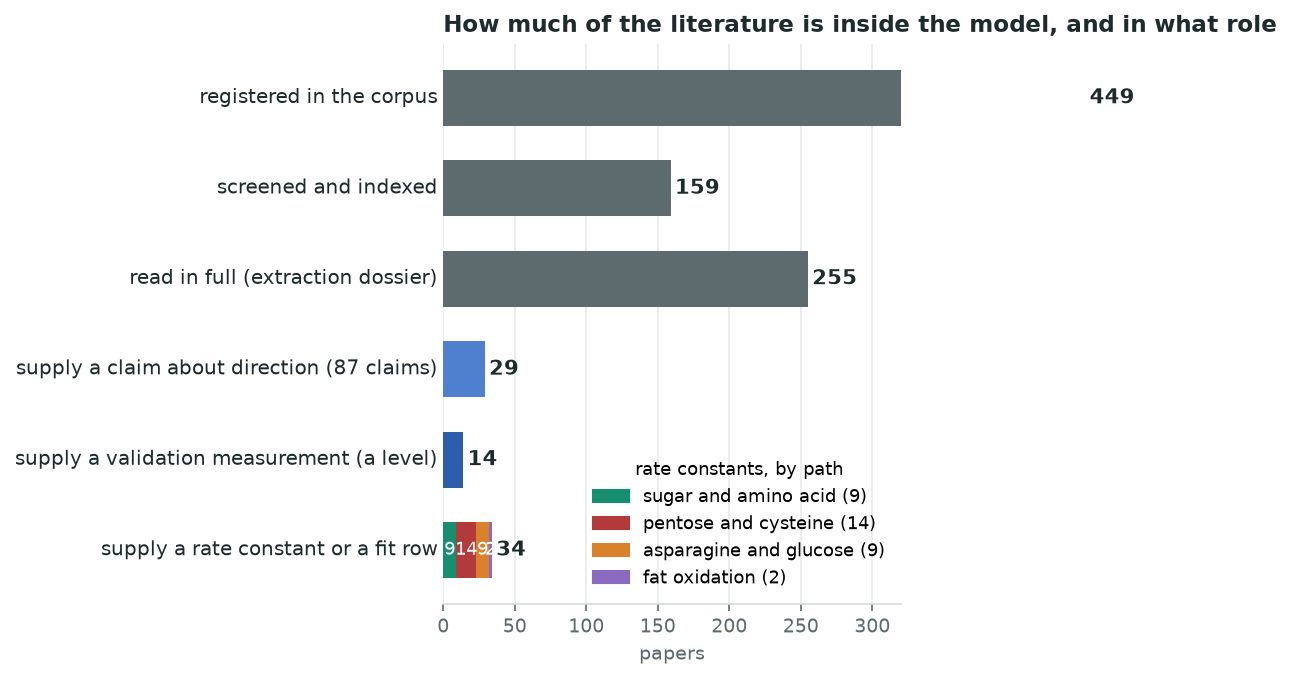
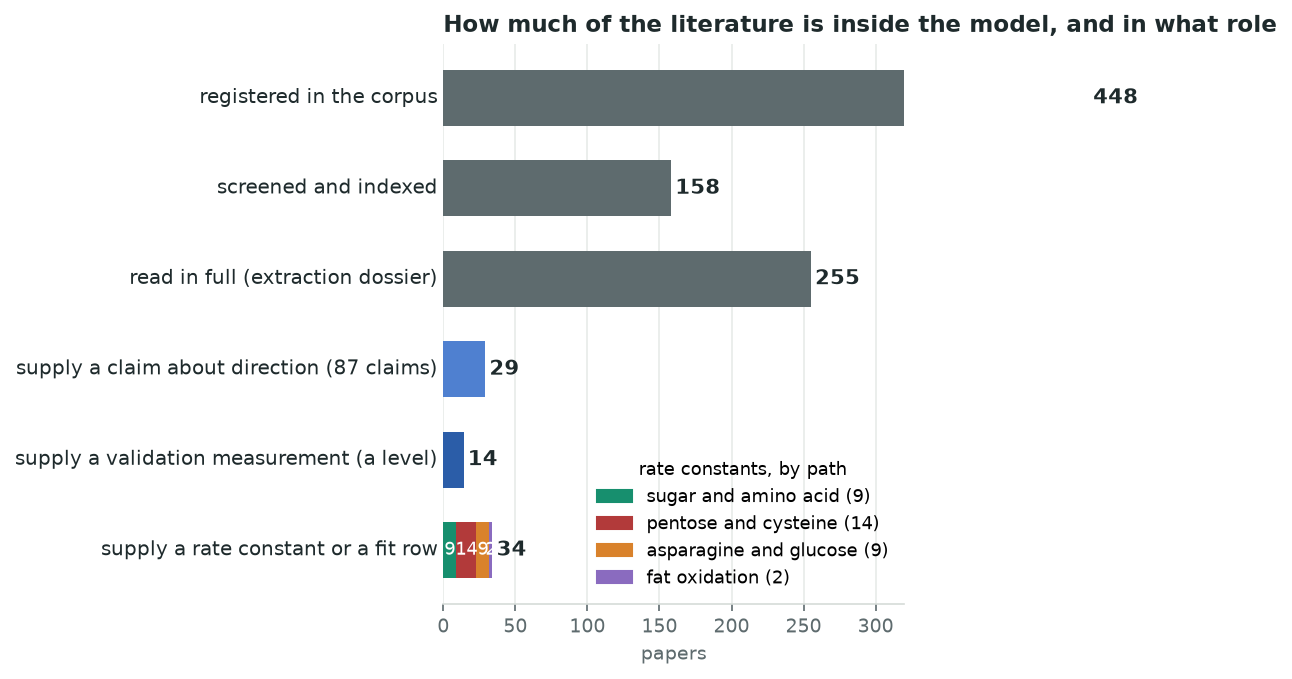
Delete the orphaned G6P/HDMF intake entry; re-pin the Chang2021 bundle hashes

diff --git a/tests/unit/test_kinetic_core_b2_3.py b/tests/unit/test_kinetic_core_b2_3.py
@@ -311,12 +311,14 @@ BUNDLE_BASELINES = {
[1 lines of base64/hex data omitted]
     "mp_holdout_glucose_alanine_130C_2h_pH80_Schibilsky2019":
[1 lines of base64/hex data omitted]
+    # re-pinned 2026-10-27: the three Chang2021 bundles' citation now names the paper's real
+    # authors (Lin, Chan, Kao & Sung, per CrossRef); measured block and conditions untouched.
     "mp_holdout_glucose_asparagine_180C_10min_Chang2021":
[2 lines of base64/hex data omitted]
     "mp_holdout_glucose_asparagine_180C_30min_Chang2021":
[2 lines of base64/hex data omitted]
     "mp_holdout_glucose_asparagine_180C_30min_water_Chang2021":
[2 lines of base64/hex data omitted]
     # RE-BASELINED BY WAVE B37/B38 (2026-09-11): the precursor provenance note gained a correction --
     # Knol 2005 is on disk and its dossier confirms the 0.2 M; no measured value moved. Previous: 974846cfc0fa87780e208fbc882310c41efcd1caa1d15fc4ae527f648edd204b
     "mp_holdout_glucose_asparagine_180C_Ye2024":

diff --git a/results/literature/slr_family_reports/slr_family_07_carbonyl_donor_hierarchy.md b/results/literature/slr_family_reports/slr_family_07_carbonyl_donor_hierarchy.md
@@ -28,45 +28,6 @@
 
 ## SECTION 1 — Curated References
 
-### Yaylayan, Machiels & Istasse (2003), J. Agric. Food Chem. 51:3358
-- **DOI:** [10.1021/jf034037p](https://doi.org/10.1021/jf034037p)
-- **Matrix Family:** aqueous_model_system
-- **Kind:** `directional_prior`
-- **Payload Role:** `benchmark_intake`
-- **Status:** `ready_for_directional_prior_encoding`
-
-| Criterion | Assessment |
-|---|---|
-| ✅ | Matrix family / reactant identity specified |
-| ✅ | Precursor concentrations / loads specified |
-| ❌ | Temperature, time or pH missing from key_values |
-| ❌ | Analytical output mode not specified |
-| ❌ | Yields reported in relative/qualitative mode only |
-| ✅ | Replicates reported |
-| ⚠ | LOD/LOQ not explicitly confirmed (qualitative/provisional status) |
-| ❌ | No sensory or odor threshold tags present |
-
-**Score: 3/8 → Calibration reference**
-
-**Key Values:**
-| Parameter | Value |
-|---|---|
-| `g6p_hdmf_multiplier_vs_glucose` | `4.4` |
-| `analytical_method` | `SIDA_[2H3]-HDMF` |
-| `replicates` | `3` |
-
-**What it supports:**
-- Bounded G6P-versus-glucose uplift for HDMF-rich phosphorylated-sugar routing
-- Directional support for phosphorylated donor prioritization when furanone output matters
-
-**What it does not support:**
-- Direct plant-matrix closure
-- Universal HDMF endpoint concentrations
-
-**Next Action:** Encode as a bounded phosphorylated-sugar prior so G6P can outrank glucose when HDMF-support signals matter.
-
----
-
 ### Blank & Fay (1996), J. Agric. Food Chem. 44:531
 - **DOI:** [10.1021/jf950439o](https://doi.org/10.1021/jf950439o)
 - **Matrix Family:** aqueous_model_system
@@ -405,11 +366,10 @@
 
 ## EXECUTIVE SUMMARY: COVERAGE MAP FOR FAMILY 7
 
-Total papers analyzed: **10** (Benchmark-eligible: **0**, Calibration references: **5**, Rejected: **5**)
+Total papers analyzed: **9** (Benchmark-eligible: **0**, Calibration references: **4**, Rejected: **5**)
 
 | Reference | Score | Status | Focus |
 |---|---|---|---|
-| Yaylayan, Machiels & Istasse (2003), J. Agric. Food Chem. 51:3358 | 3/8 | ⚠ Calibration | aqueous_model_system |
 | Blank & Fay (1996), J. Agric. Food Chem. 44:531 | 3/8 | ⚠ Calibration | aqueous_model_system |
 | Zhang et al. (2024), J. Agric. Food Chem. 72:22461 | 3/8 | ⚠ Calibration | free_model_system |
 | Martins & van Boekel (2003), Carbohydr. Res. 338:1665 | 3/8 | ⚠ Calibration | free_model_system |
@@ -428,7 +388,6 @@ Total papers analyzed: **10** (Benchmark-eligible: **0**, Calibration references
 - *No primary benchmark-eligible references found.*
 
 ### CALIBRATION (Score 3-5)
-- `Yaylayan, Machiels & Istasse (2003), J. Agric. Food Chem. 51:3358` (Score: 3/8)
 - `Blank & Fay (1996), J. Agric. Food Chem. 44:531` (Score: 3/8)
 - `Zhang et al. (2024), J. Agric. Food Chem. 72:22461` (Score: 3/8)
 - `Martins & van Boekel (2003), Carbohydr. Res. 338:1665` (Score: 3/8)

diff --git a/results/validation/literature_backlog.md b/results/validation/literature_backlog.md
@@ -3,7 +3,7 @@
 Queue policy: ready queues are exclusive to non-encoded intake rows; wet_lab_blocked comes only from structural gaps with closure_outcome=wet_lab_only
 
 Encoded references: 172
-Ready runtime: 1
+Ready runtime: 0
 Ready benchmark: 0
 Wet-lab blocked: 4
 Queue conflicts: 0
@@ -12,7 +12,7 @@ Queue conflicts: 0
 
 | ID | Template | Family | Matrix | Triage | Encoding | Next Action |
 | --- | --- | --- | --- | --- | --- | --- |
-| blank_devaud_grosch_2003_g6p_hdmf_prior | computational_prior | nucleotide_and_ribose_support | aqueous_model_system | ready_directional_prior | template_required | Encode as a bounded phosphorylated-sugar prior so G6P can outrank glucose when HDMF-support signals matter. |
+| none | n/a | n/a | n/a | n/a | n/a | no runtime-only backlog remains in the curated intake registry |
 
 ## Ready Benchmark
 
